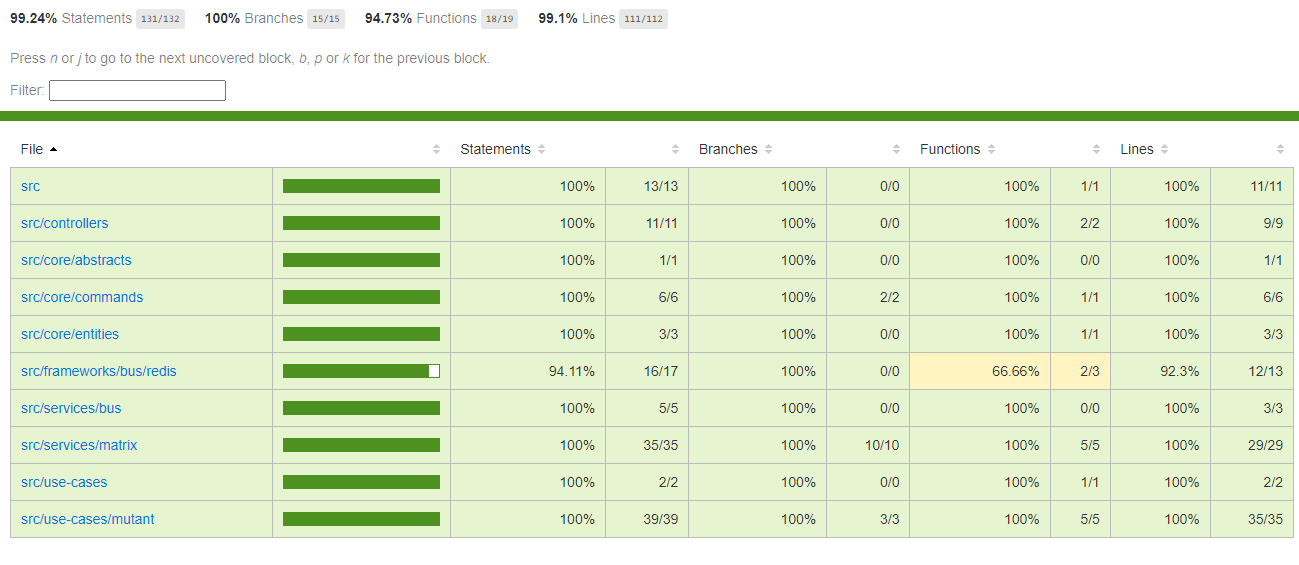
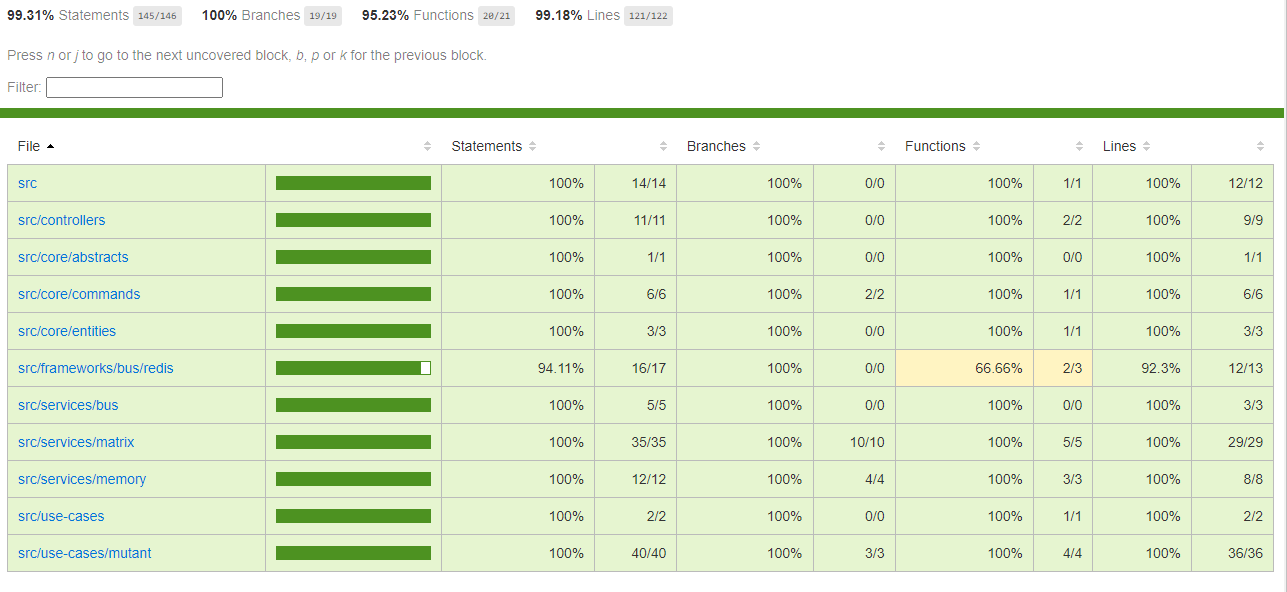
Actualización readme e implemtanción memoria local

diff --git a/mutant/src/use-cases/mutant/mutant.use-case.ts b/mutant/src/use-cases/mutant/mutant.use-case.ts
@@ -5,17 +5,17 @@ import config from '../../config';
 import { IBusService } from '../../core/abstracts/bus.abstract';
 import { Dna } from '../../core/entities';
 import { MatrixService } from '../../services/matrix/matrix.service';
+import { MemoryService } from '../../services/memory/memory.service';
 import { BusCommandEnum } from '../../core/commands/command.enum';
 
 @Injectable()
 /* MutantUseCases class dónde se hace la lógica para analizar el ADN*/
 export class MutantUseCases {
-  private data: Dna[] = [];
-
   constructor(
     @Inject(config.KEY)
     private readonly configService: ConfigType<typeof config>,
     private readonly matrixService: MatrixService,
+    private readonly memoryService: MemoryService,
     private readonly busServices: IBusService,
   ) {}
 
@@ -26,16 +26,16 @@ export class MutantUseCases {
    * @returns boolean, si es mutante o no.
    */
   async isMutant(dna: Dna): Promise<boolean> {
-    const dnaFounded = await this.getFromStorage(dna);
+    const dnaFounded = await this.getIsMutantFromStorage(dna);
 
-    if (dnaFounded) {
-      return dnaFounded.isMutant;
+    if (typeof dnaFounded === 'boolean') {
+      return dnaFounded;
     }
 
     const isMutant = await this.validateIfIsMutant(dna.dnaSequence);
     const dnaRegister: Dna = { ...dna, isMutant };
 
-    this.data.push(dnaRegister);
+    this.memoryService.addDna(dnaRegister);
     this.busServices.client.emit<void, Dna>(
       { cmd: BusCommandEnum.STORAGE_SAVE },
       dnaRegister,
@@ -64,15 +64,13 @@ export class MutantUseCases {
    * Busca si la secuencia de ADN ya fue analizada con anterioridad
    * busca primero en memoria, sino llama al microservicio de storage para buscarla
    * @param {Dna} dna - ADN - Secuancia de AND a ser validada
-   * @returns Promesa, null si no fue encontrada, modelo <Dna> si fue encontrada.
+   * @returns Promesa, null si no fue encontrada, o boolean si fue encontrada.
    */
-  private async getFromStorage(dna: Dna): Promise<Dna | null> {
-    const dnaFounded1 = this.data.find(
-      (x) => x.dnaSequence === dna.dnaSequence,
-    );
+  private async getIsMutantFromStorage(dna: Dna): Promise<boolean | null> {
+    const dnaFromLocalMemory = this.memoryService.getIsMutant(dna.dnaSequence);
 
-    if (dnaFounded1) {
-      return dnaFounded1;
+    if (typeof dnaFromLocalMemory === 'boolean') {
+      return dnaFromLocalMemory;
     }
 
     const dnaFounded = await firstValueFrom(
@@ -83,8 +81,8 @@ export class MutantUseCases {
     );
 
     if (dnaFounded) {
-      this.data.push(dnaFounded);
-      return dnaFounded;
+      this.memoryService.addDna(dnaFounded);
+      return dnaFounded.isMutant;
     }
 
     return null;

diff --git a/mutant/src/services/memory/memory.service.spec.ts b/mutant/src/services/memory/memory.service.spec.ts
@@ -1,0 +1,36 @@
+import { MemoryService } from './memory.service';
+import { Test, TestingModule } from '@nestjs/testing';
+import { Dna } from '../../core/entities/dna.entity';
+import { AppModule } from '../../app.module';
+
+describe('MemoryService', () => {
+  let moduleRef: TestingModule;
+  let memoryService: MemoryService;
+
+  beforeEach(async () => {
+    moduleRef = await Test.createTestingModule({
+      imports: [AppModule],
+    }).compile();
+
+    memoryService = moduleRef.get<MemoryService>(MemoryService);
+  });
+
+  it('should save in memory an ADN', () => {
+    const dnaData: Dna = { dnaSequence: 'ASDFGH,ZXCVBN', isMutant: true };
+
+    memoryService.addDna(dnaData);
+    const response = memoryService.getIsMutant(dnaData.dnaSequence);
+
+    expect(response).toBe(true);
+  });
+
+  it('should return null when de DNA not exist', () => {
+    const response = memoryService.getIsMutant('QWEQWE,ASDASD');
+
+    expect(response).toBeNull();
+  });
+
+  afterEach(() => {
+    moduleRef.close();
+  });
+});

diff --git a/mutant/src/services/memory/memory.service.ts b/mutant/src/services/memory/memory.service.ts
@@ -1,0 +1,24 @@
+import { Injectable } from '@nestjs/common';
+import { Dna } from '../../core/entities';
+
+@Injectable()
+export class MemoryService {
+  private localMemory: { [dna: string]: boolean } = {};
+
+  /**
+   * SI encuentra la secuencia de AND retorna si es mutante, sino la encuentra retorna null
+   * @param {string} sequenceDna - string - secuencia de ADN a validar.
+   * @returns Si es mutante o null si no se encuentra el ADN.
+   */
+  getIsMutant(sequenceDna: string): boolean | null {
+    return this.localMemory[sequenceDna] ?? null;
+  }
+
+  /**
+   * Agrega el ADN a memoria.
+   * @param {Dna} dna - Dna - ADN a agregar
+   */
+  addDna(dna: Dna): void {
+    this.localMemory[dna.dnaSequence] = dna.isMutant;
+  }
+}

diff --git a/mutant/src/app.module.ts b/mutant/src/app.module.ts
@@ -4,6 +4,7 @@ import config from './config';
 import { MutantController } from './controllers/mutant.controller';
 import { BusServicesModule } from './services/bus/bus.service';
 import { MatrixServicesModule } from './services/matrix/matrix.module';
+import { MemoryServicesModule } from './services/memory/memory.module';
 import { MutantUseCasesModule } from './use-cases/mutant/mutant.module';
 
 @Module({
@@ -14,6 +15,7 @@ import { MutantUseCasesModule } from './use-cases/mutant/mutant.module';
     }),
     BusServicesModule,
     MatrixServicesModule,
+    MemoryServicesModule,
     MutantUseCasesModule,
   ],
   controllers: [MutantController],

diff --git a/mutant/src/use-cases/mutant/mutant.module.ts b/mutant/src/use-cases/mutant/mutant.module.ts
@@ -1,10 +1,11 @@
 import { Module } from '@nestjs/common';
 import { BusServicesModule } from '../../services/bus/bus.service';
 import { MatrixServicesModule } from '../../services/matrix/matrix.module';
+import { MemoryServicesModule } from '../../services/memory/memory.module';
 import { MutantUseCases } from './mutant.use-case';
 
 @Module({
-  imports: [MatrixServicesModule, BusServicesModule],
+  imports: [MatrixServicesModule, BusServicesModule, MemoryServicesModule],
   providers: [MutantUseCases],
   exports: [MutantUseCases],
 })

diff --git a/mutant/src/services/memory/memory.module.ts b/mutant/src/services/memory/memory.module.ts
@@ -1,0 +1,8 @@
+import { Module } from '@nestjs/common';
+import { MemoryService } from './memory.service';
+
+@Module({
+  providers: [MemoryService],
+  exports: [MemoryService],
+})
+export class MemoryServicesModule {}

diff --git a/README.md b/README.md
@@ -98,7 +98,7 @@ Al configurarse el swagger se puede acceder a la siguiente url, en dónde se pue
 
 Tambien se adjunta un postman por si se desea probar por este medio
 
-?????????????????????????????????
+[Archivo de postman](./MELI-Mutant.postman_collection.json) en la raiz del repositorio
 
 ### Base de datos
 
@@ -116,4 +116,4 @@ mongodb+srv://<username>:<password>@cluster0.ara07.mongodb.net/test
 
 Se adjunta un Jmeter configurado para hacer una pequeña prueba de cantidad de peticiones en un segundo
 
-[JMeter en la raiz del repositorio](./Test%20Plan.jmx)
+[Archivo JMeter](./Test%20Plan.jmx) en la raiz del repositorio
